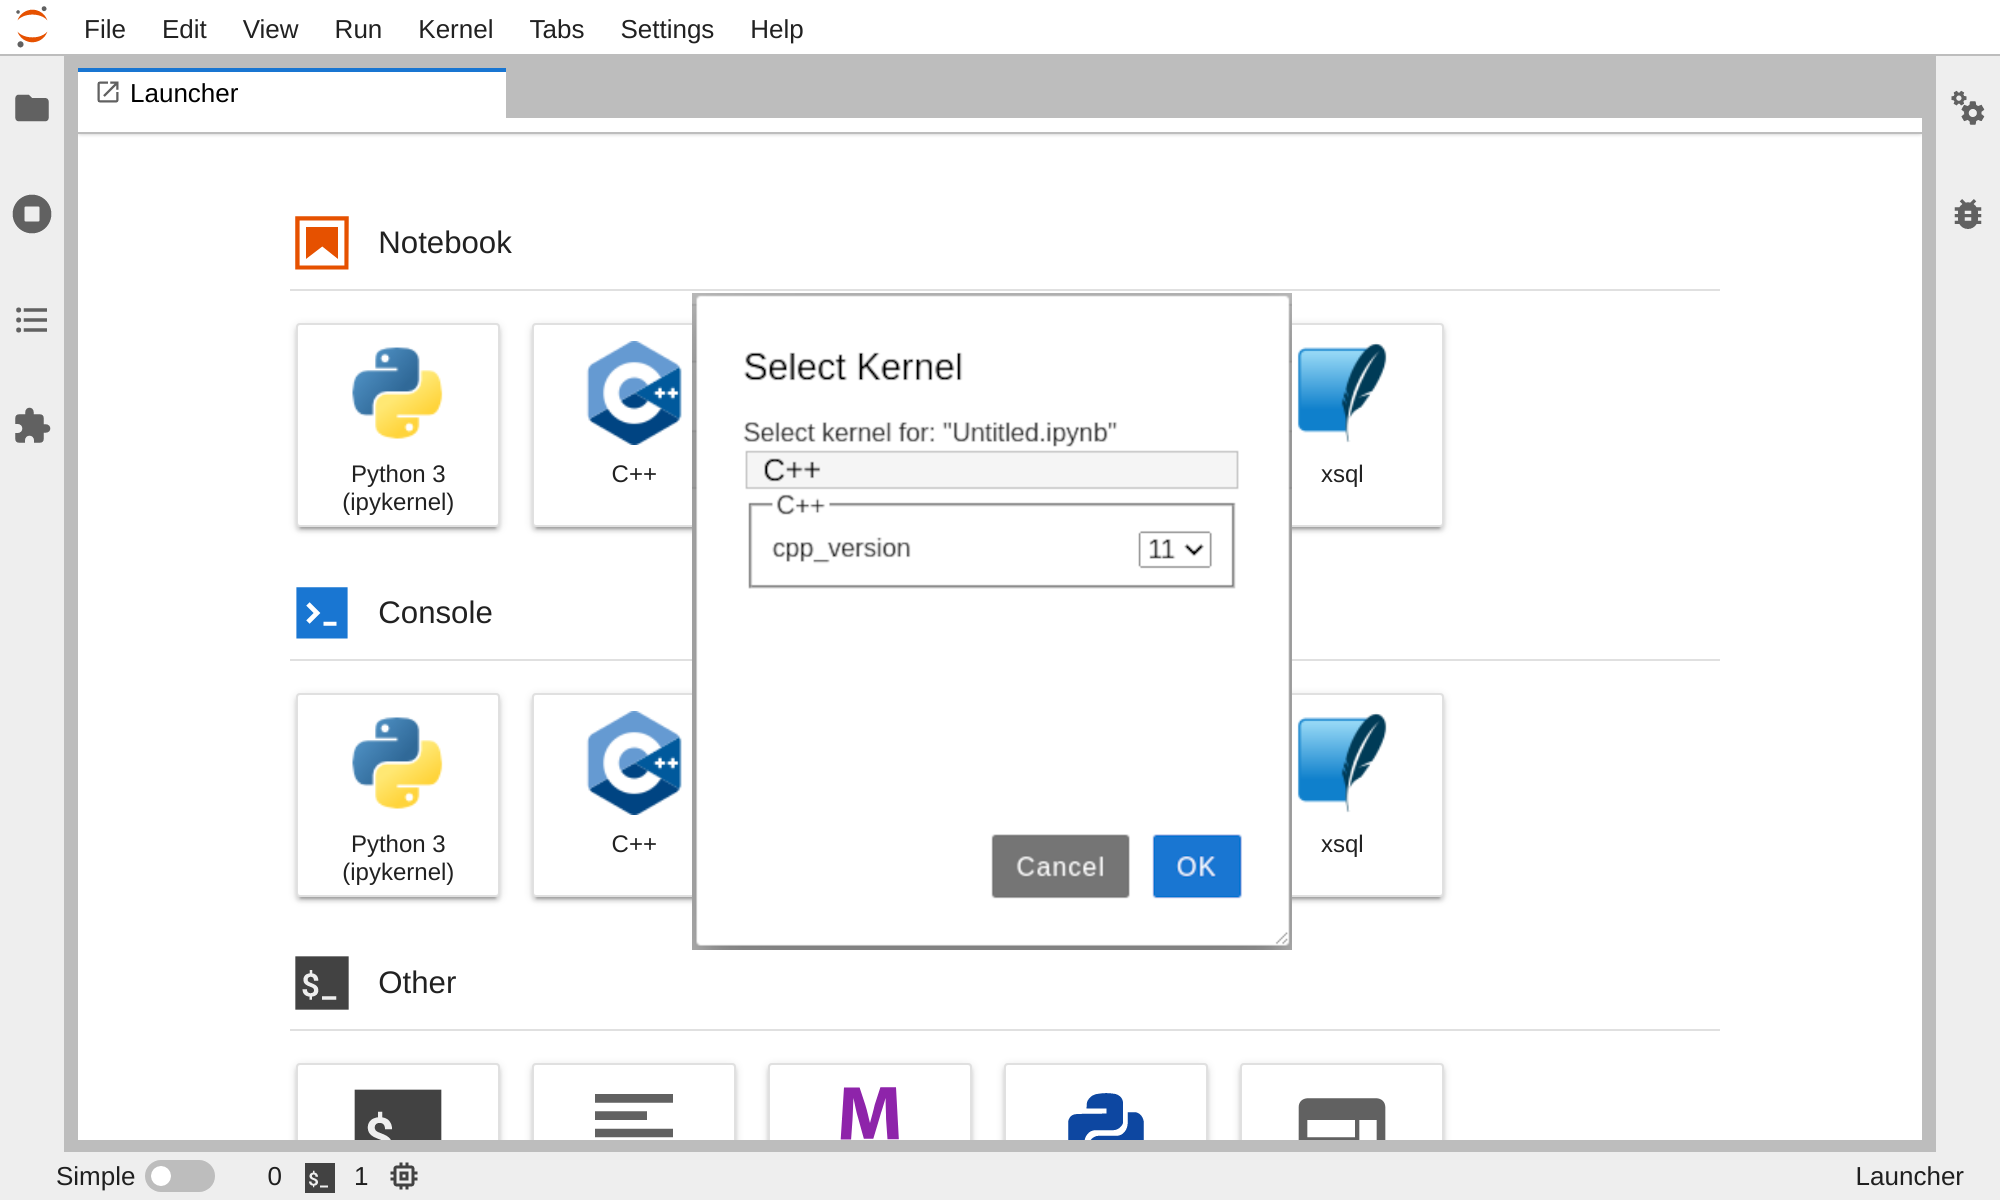
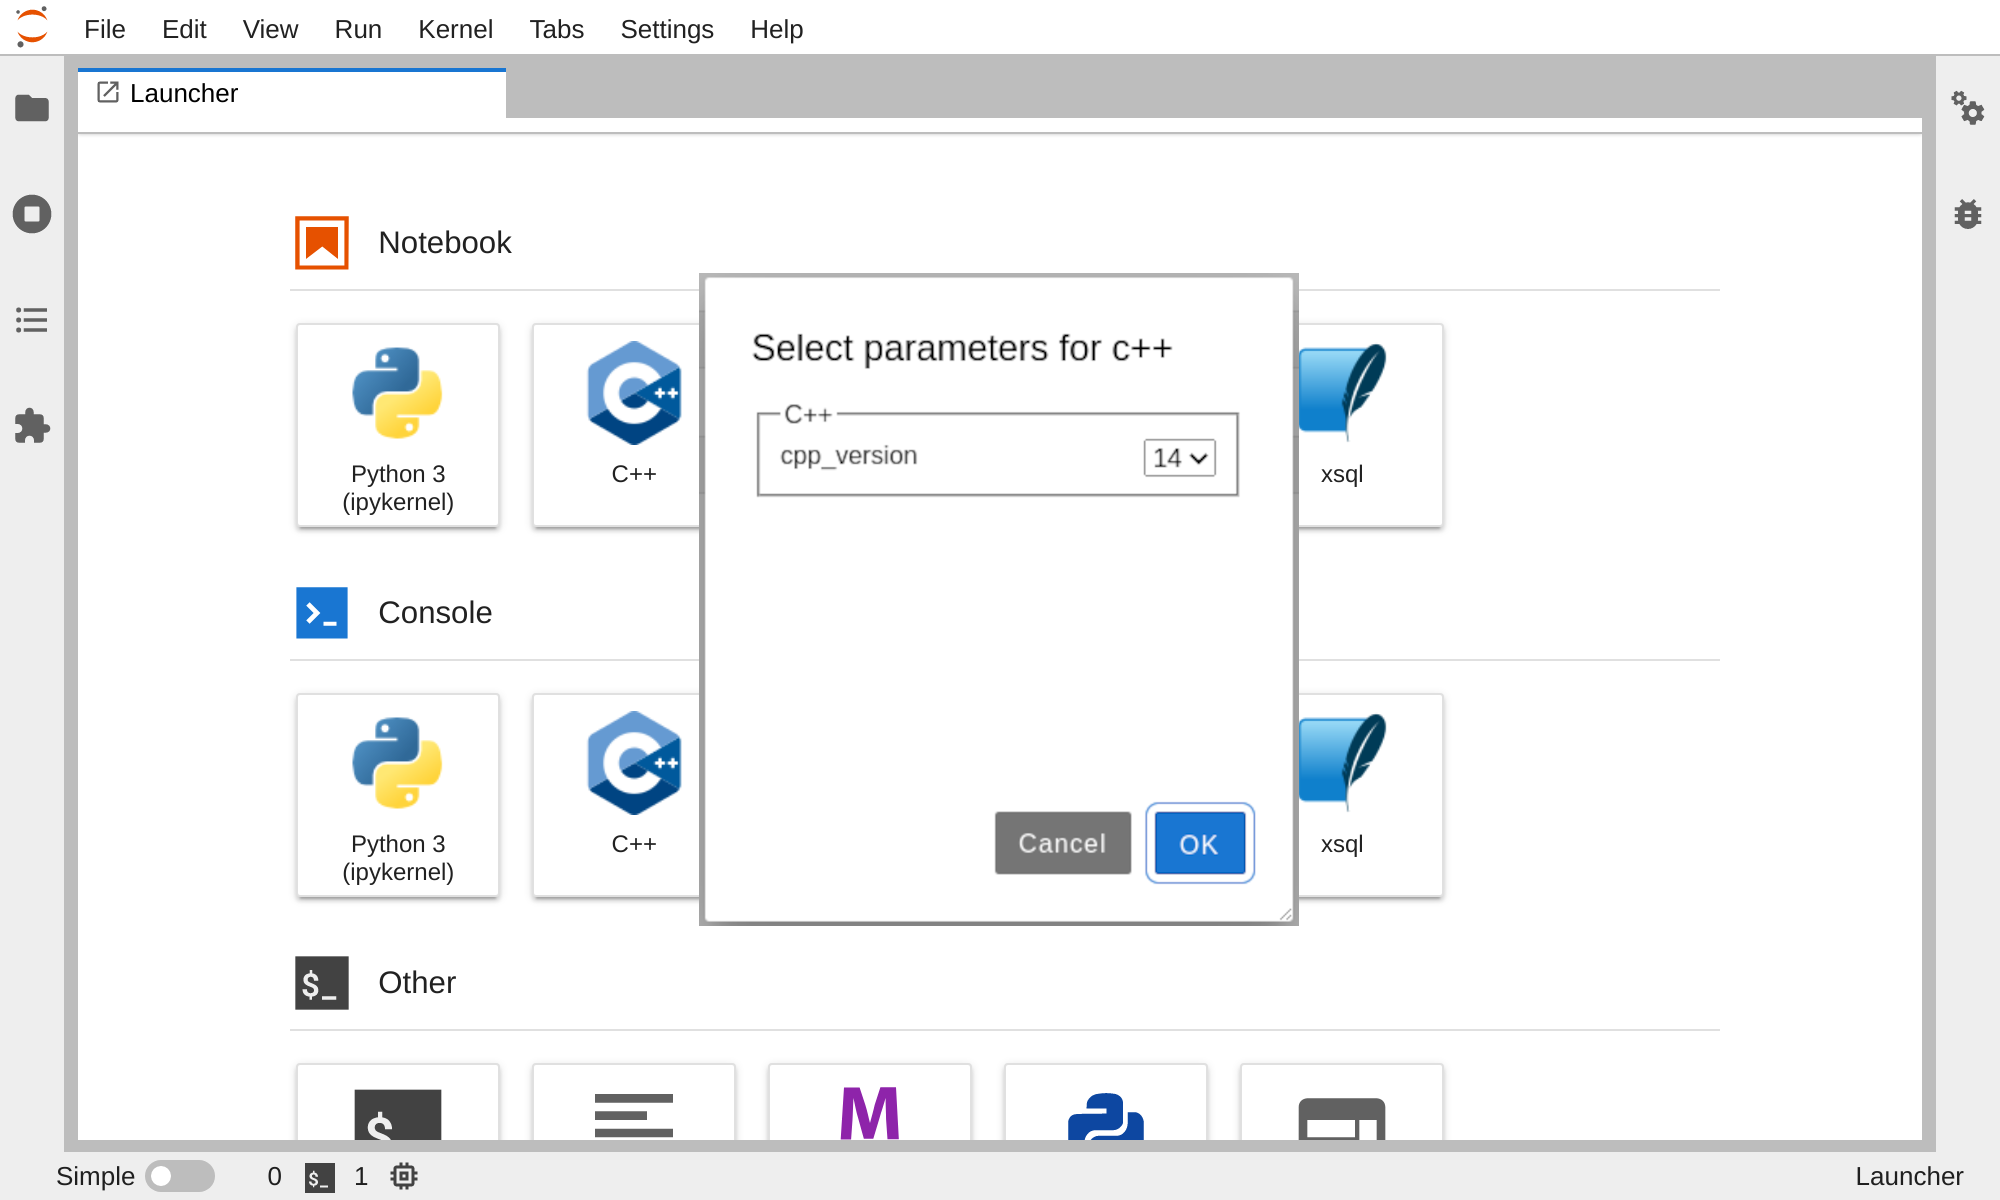
Proposal

Changed region(s): [[0.341, 0.2158, 0.651, 0.8017]]

diff --git a/src/index.tsx b/src/index.tsx
@@ -222,7 +222,7 @@ class KernelSpecDialog
         <div className="jp-select-wrapper">
           <select
             id="kernel"
-            className="jp-mod-styled"
+            className="jp-mod-styled jp-select-kernel"
             onChange={this._handlerKernel}
           >
             {selectKernel()}
@@ -251,7 +251,7 @@ const EXAMPLE: KernelSpec = {
       parameters: {
         cpp_version: {
           type: 'string',
-          default: '11',
+          default: '14',
           enum: ['11', '14', '17'],
           save_to_notebook: true
         }

diff --git a/style/base.css b/style/base.css
@@ -7,3 +7,7 @@
 	display: flex;
 	justify-content: space-between;
 }
+
+.jp-select-kernel {
+	margin-bottom: 20px;
+}

diff --git a/jupyter-parameterized-kernel-specs.md b/jupyter-parameterized-kernel-specs.md
@@ -1,0 +1,87 @@
+# Jupyter Parameterized Kernel Specs
+
+## Problem
+
+When creating a new kernel, we need to define a different "specs" file for each possible parameter combination used by the executable. For example, the xeus-cling kernel supports three different versions of the `C++` language, `C++11`, `C++14`, and `C++17`, which is specified by the `--std` command-line option.
+
+When installing xeus-cling, we install three almost identical kernel specs. The only difference is the last parameter of the execution command `-std=c++X`.
+
+When more than one parameter is available, the number of possible combinations grows in a combinatorics fashion.
+
+Besides, some kernels would benefit from being configurable when launching them. For example, the connection information to the database could be specified through kernel parameters rather than kernel magics.
+
+Sometimes when installing multiple kernels, the JupyterLab launcher panel is crowded with too many options to create a notebook or console with a specific kernel. The kernels that users see in the launcher are just multiple kernel specs for one kernel. We could avoid having that many kernels displayed, adding parameters to the kernel specs, showing only one option per kernel, and offering a modal dialog with the different options the user can choose from when selecting a specific kernel.
+
+## Proposed Enhancement
+
+The solution we are proposing consists of adding parameters to the kernel specs file in the form of a JSON Schema that would be added to the specs metadata. These parameters are then used to populate the `argv` and `env` lists (respectively the command-line arguments and environment variables).
+
+Upon starting a new kernel instance, a front-end form generated from the JSON schema is prompted to the user to fill the parameter values. Many tools are available to generate such forms, such as react-jsonschema-form.
+
+Some of the chosen parameter values can be saved in e.g. the notebook metadata so that they don't have to be specified every time one opens the notebook.
+
+## Detailed Explanation
+
+As described in previous sections, we propose to parameterize the kernel specs file. In the example shown below, we can see the kernel specs file from the kernel xeus-cling. We suggest changing the last parameter of the execution command `-std=c++11` to have a variable `-std=${cpp_version}` and adding a new object `parameters` to the metadata of the kernel specs.
+ 
+```=json
+{
+  "display_name": "C++11",
+  "argv": [
+      "/home/user/micromamba/envs/kernel_spec/bin/xcpp",
+      "-f",
+      "{connection_file}",
+      "-std=c++11"
+  ],
+  "language": "C++11"
+}
+```
+```=json
+{
+  "display_name": "C++",
+  "argv": [
+      "/home/user/micromamba/envs/kernel_spec/bin/xcpp",
+      "-f",
+      "{connection_file}",
+      "-std=${parameters.cpp_version}"
+  ],
+  "language": "C++"
+  "metadata": {
+      "parameters": {
+        "cpp_version": {
+          "type": "string",
+          "default": 'C++14',
+          "enum": ['C++11', 'C++14', 'C++17'],
+          "save": true
+        }
+      }
+    },
+}
+```
+
+The JSON schema specification is augmented with a new `save` attribute used to specify whether the parameter is to be saved in e.g. the notebook metadata for future runs.
+
+Note: Using the JSON Schema, we can automate how front-end forms are created directly from the parameters allowing kernels' authors to decide which parameters are necessary and how to validate them. (Note that JupyterLab already makes use of react-jsonschema-form in other parts of its UI).
+
+In the following screenshots, you can see a small demo of how we envision the UI changes in JupyterLab.
+
+  Jupyterlab Launcher      |  Select c++ version
+:-------------------------:|:-------------------------:
+ ![](assets/launcher.png)  |  ![](assets/launcher-select-c-version.png)
+
+
+![](assets/notebook-select-kernel.gif)
+
+
+
+
+## Pros and Cons
+
+Pros:
+
+ - A less crowded list of kernels specs
+
+Cons:
+
+ - Changes are required in multiple components of the stack, from the protocol specification to the front-end.
+ - Unless we require default values for all parameters, this would be a backward-incompatible change.
